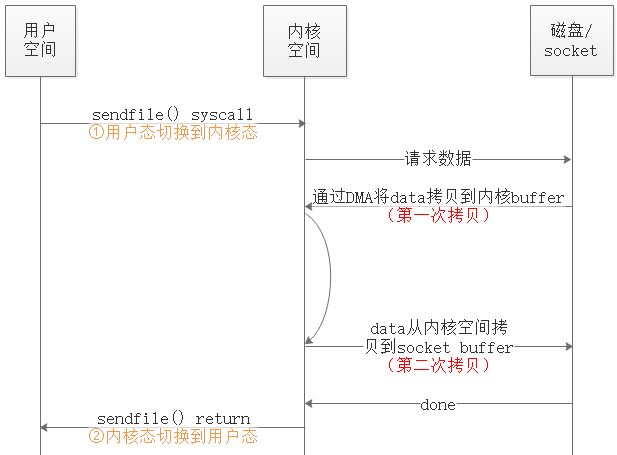
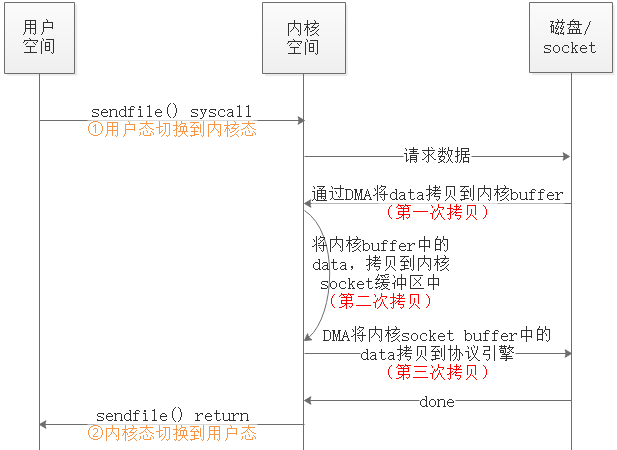
[ADD] 零拷贝

diff --git a/E_UNIX编程/零拷贝.md b/E_UNIX编程/零拷贝.md
@@ -13,9 +13,15 @@
 
 常规的read/write要经过：4次用户空间/内核空间来回切换，4次拷贝，详细见下图。
 
+分析：可以看到，CPU的两次拷贝是多余的（即第2、3次拷贝）
+
+---
+
 ### 2. 零拷贝
 
 零拷贝的任务是避免CPU将数据从一块存储拷贝到另一块存储，主要就是利用各种拷贝技术，避免让CPU做大量的数据拷贝任务，减少不必要的拷贝。
+
+
 
 
 
